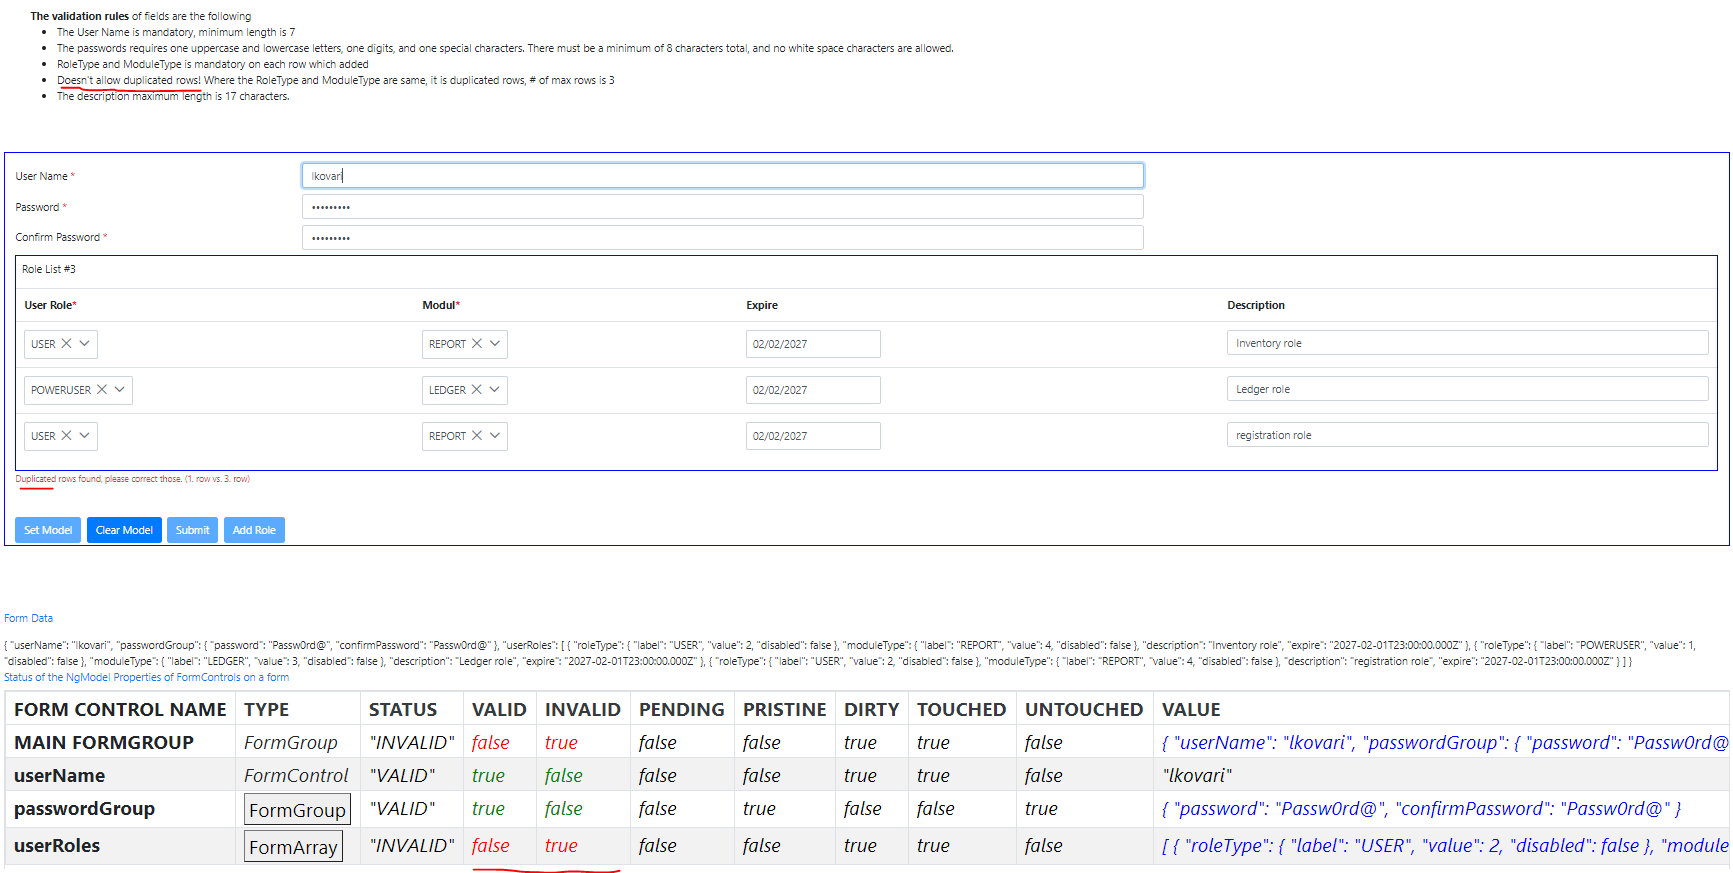
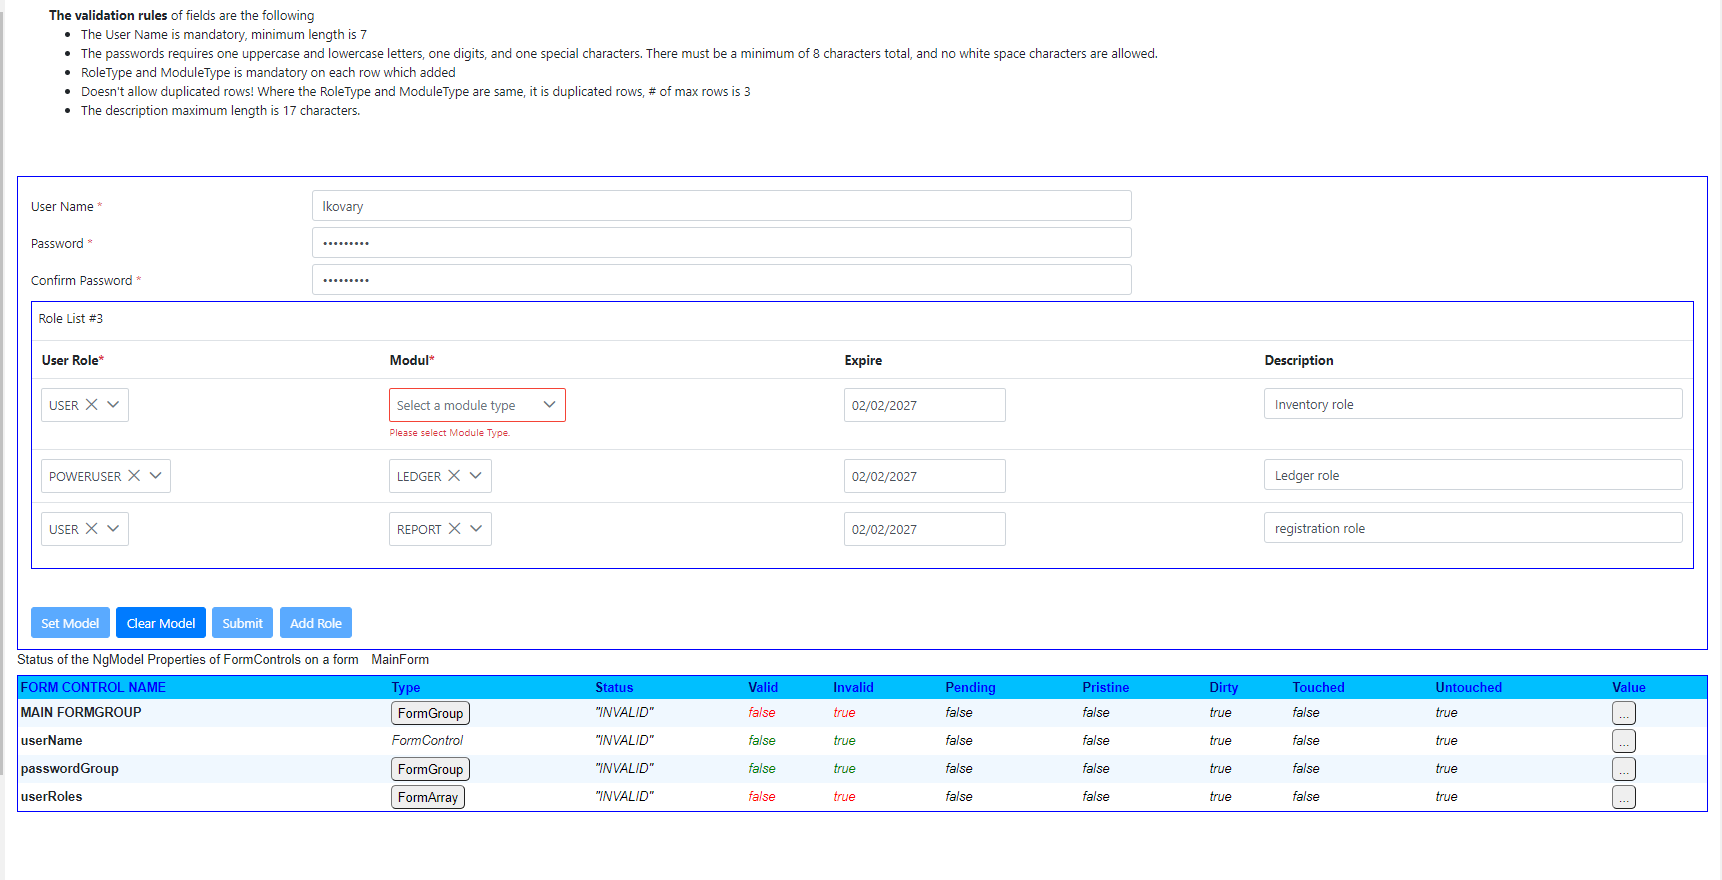
updated library and installed it (form-validation-monitor)

diff --git a/src/app/layout/angular-page/angular-page-content7/angular-page-content7.component.html b/src/app/layout/angular-page/angular-page-content7/angular-page-content7.component.html
@@ -114,7 +114,7 @@
       <div class="table-responsive-sm user-role-list">
         <label class="spacer-vertical-above spacer-horozontal-left">Role List
           #{{ getUserRoleControls().length }}</label>
-        <table class="table spacer-vertical-above" formArrayName="userRoles">
+        <table class="table spacer-vertical-above" style="overflow-x:auto;" formArrayName="userRoles">
           <thead>
             <tr>
               <th>
@@ -193,11 +193,11 @@
       </div>
     </form>
   </div>
-  <div class="form-data-area">
+  <!--div class="form-data-area">
     <label class="text-primary">Form Data</label>
     <div class="form-data">
       {{ mainFormData | json }}
     </div>
-  </div>
-  <lk-form-validation-monitor [mainFormGroup]="mainForm" [distanceFrom]="5"></lk-form-validation-monitor>  
+  </div-->
+  <lk-form-validation-monitor [mainFormGroup]="mainForm" [topGap]="5"></lk-form-validation-monitor>
 </div>

diff --git a/src/app/shared/components/sidebar/sidebar.component.ts b/src/app/shared/components/sidebar/sidebar.component.ts
@@ -8,8 +8,8 @@ import { Component, OnInit } from '@angular/core';
 export class SidebarComponent implements OnInit {
   isActive = false;
   showMenu = '';
-  lastUpdate = new Date('03/07/2021 01:51 PM');
-  lastUpdateTooltip = 'Installed lk-form-validation monitor npm, and using it.';
+  lastUpdate = new Date('03/14/2021 05:46 PM');
+  lastUpdateTooltip = 'Updated lk-form-validation monitor npm, and using it.';
 
   ngOnInit() {
     this.lastUpdateTooltip = this.lastUpdateTooltip + '';

diff --git a/src/app/layout/angular-page/angular-page-content3/angular-page-content3.component.html b/src/app/layout/angular-page/angular-page-content3/angular-page-content3.component.html
@@ -127,6 +127,6 @@
     <div class="sub-topic">
       The form control named <b>complexName</b> is a Custom FormControl Component the selector is <b>app-complex-name</b> which implements ControlValueAccessor
     </div>
-    <lk-form-validation-monitor [mainFormGroup]="exampleForm" [distanceFrom]="2"></lk-form-validation-monitor>    
+    <lk-form-validation-monitor [mainFormGroup]="exampleForm" [topGap]="5"></lk-form-validation-monitor>
   </div>
 </div>

diff --git a/src/app/layout/angular-page/angular-page-content11/angular-page-content11.component.html b/src/app/layout/angular-page/angular-page-content11/angular-page-content11.component.html
@@ -52,5 +52,5 @@
             <label class="sub-topic">Selected {{ showCheckedItems() | json }} </label>
         </div>
     </div>
-    <lk-form-validation-monitor [mainFormGroup]="exampleForm" [distanceFrom]="5"></lk-form-validation-monitor>
+    <lk-form-validation-monitor [mainFormGroup]="exampleForm" [topGap]="5"></lk-form-validation-monitor>
 </div>

diff --git a/src/app/layout/angular-page/angular-page-content6/angular-page-content6.component.html b/src/app/layout/angular-page/angular-page-content6/angular-page-content6.component.html
@@ -33,6 +33,6 @@
         <app-main-form [customForm]="customForm"></app-main-form>
       </div>
     </div>
-    <lk-form-validation-monitor [mainFormGroup]="customForm" [distanceFrom]="2"></lk-form-validation-monitor>
+    <lk-form-validation-monitor [mainFormGroup]="customForm" [topGap]="2"></lk-form-validation-monitor>
   </div>
 </div>

diff --git a/src/app/layout/angular-page/angular-page-content4/angular-page-content4.component.html b/src/app/layout/angular-page/angular-page-content4/angular-page-content4.component.html
@@ -68,6 +68,6 @@
         <p>Address: {{ form_data.address | json }} </p>
       </div>
     </div>
-    <lk-form-validation-monitor [mainFormGroup]="exampleForm" [distanceFrom]="2"></lk-form-validation-monitor>    
+    <lk-form-validation-monitor [mainFormGroup]="exampleForm" [topGap]="2"></lk-form-validation-monitor>
   </div>
 </div>

diff --git a/src/app/layout/angular-page/angular-page-content5/data-main-input/data-main-input.component.html b/src/app/layout/angular-page/angular-page-content5/data-main-input/data-main-input.component.html
@@ -51,5 +51,5 @@
       {{ customFormModel | json }}
     </div>
   </div>
-  <lk-form-validation-monitor [mainFormGroup]="formData" [distanceFrom]="2"></lk-form-validation-monitor>  
+  <lk-form-validation-monitor [mainFormGroup]="formData" [topGap]="2"></lk-form-validation-monitor>
 </div>

diff --git a/src/app/layout/angular-page/angular-page-content2/angular-page-content2.component.html b/src/app/layout/angular-page/angular-page-content2/angular-page-content2.component.html
@@ -148,5 +148,5 @@
       </div>
     </div>
   </div>
-  <lk-form-validation-monitor [mainFormGroup]="dataEntryForm"></lk-form-validation-monitor>  
+  <lk-form-validation-monitor [mainFormGroup]="dataEntryForm"></lk-form-validation-monitor>
 </div>
